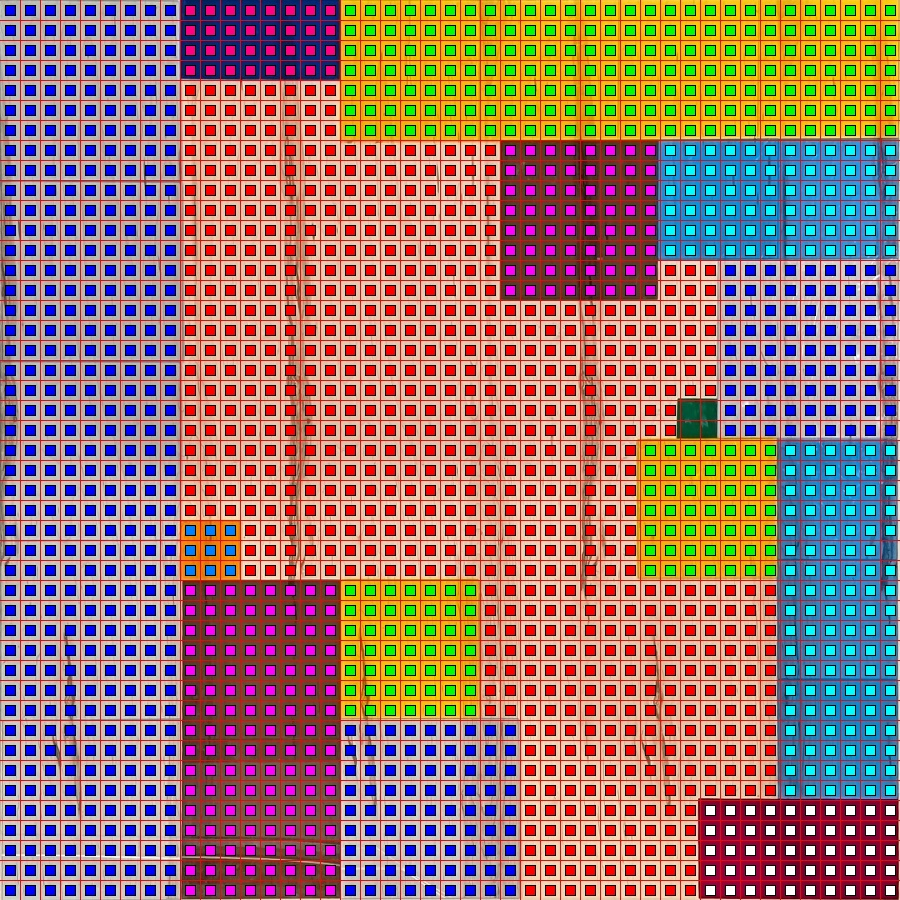
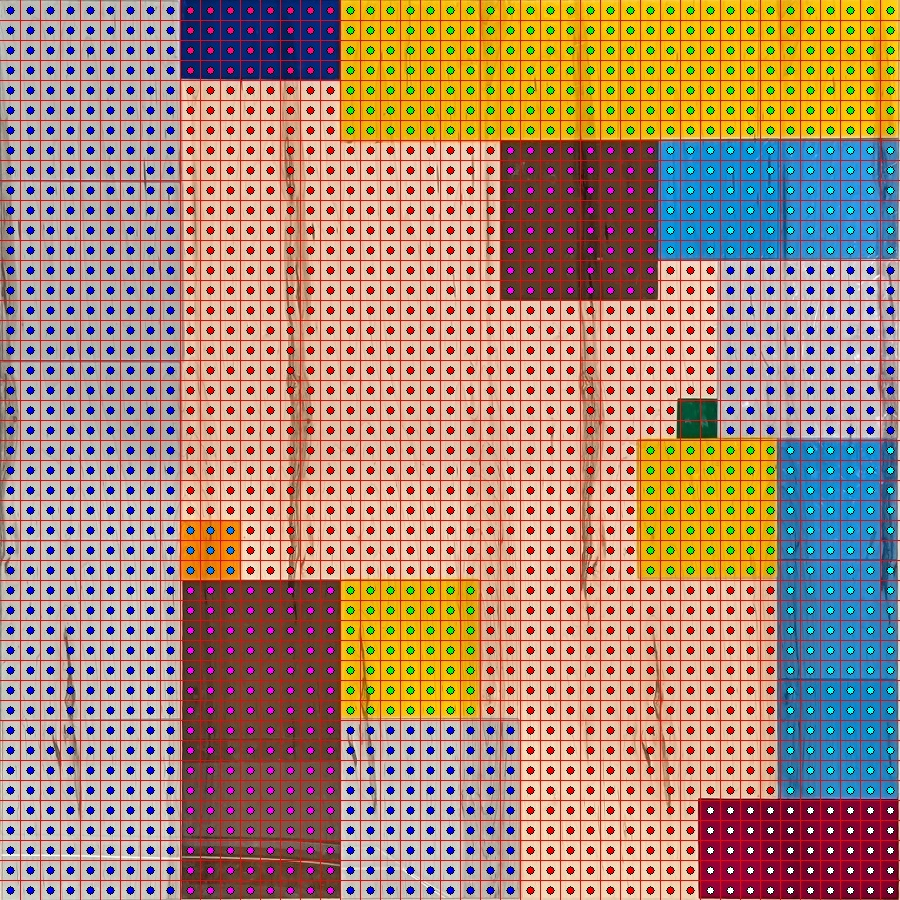
Use small circles instead of squares

diff --git a/to_json.py b/to_json.py
@@ -146,7 +146,7 @@ if args.debug:
         print(f"   Cluster {label}: BGR{bgr}")
 
 def create_small_squares_visualization(img, labels_slice, cluster_colors, filename):
-    """Create visualization where each small square has a colored mini-square in its center"""
+    """Create visualization where each small square has a colored mini-circle in its center"""
     cell = img.shape[0] // 45
     viz = img.copy()
     
@@ -158,22 +158,20 @@ def create_small_squares_visualization(img, labels_slice, cluster_colors, filena
                 y0 = r * cell
                 x0 = c * cell
                 
-                # Calculate mini-square size (50% of cell size)
-                mini_size = int(cell * 0.5)
+                # Calculate mini-circle radius (smaller than the previous squares)
+                mini_radius = int(cell * 0.2)  # 40% diameter (20% radius) of cell size
                 
-                # Calculate mini-square position (centered in cell)
-                mini_y0 = y0 + (cell - mini_size) // 2
-                mini_x0 = x0 + (cell - mini_size) // 2
-                mini_y1 = mini_y0 + mini_size
-                mini_x1 = mini_x0 + mini_size
+                # Calculate mini-circle center position
+                center_y = y0 + cell // 2
+                center_x = x0 + cell // 2
                 
-                # Draw solid colored mini-square
-                cv2.rectangle(viz, (mini_x0, mini_y0), (mini_x1, mini_y1), 
-                            cluster_colors[label], -1)
+                # Draw solid colored mini-circle
+                cv2.circle(viz, (center_x, center_y), mini_radius,
+                          cluster_colors[label], -1)
                 
-                # Add black border around mini-square for visibility
-                cv2.rectangle(viz, (mini_x0, mini_y0), (mini_x1, mini_y1), 
-                            (0, 0, 0), 1)
+                # Add black border around mini-circle for visibility
+                cv2.circle(viz, (center_x, center_y), mini_radius,
+                          (0, 0, 0), 1)
     
     # Save the visualization
     output_path = os.path.join("images/small-squares", filename)
